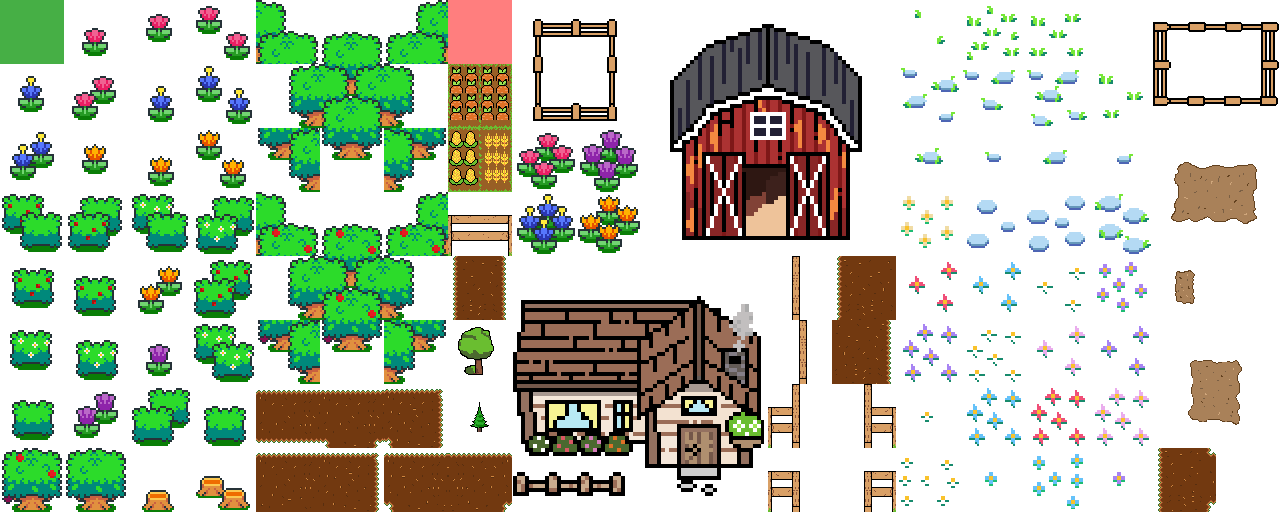
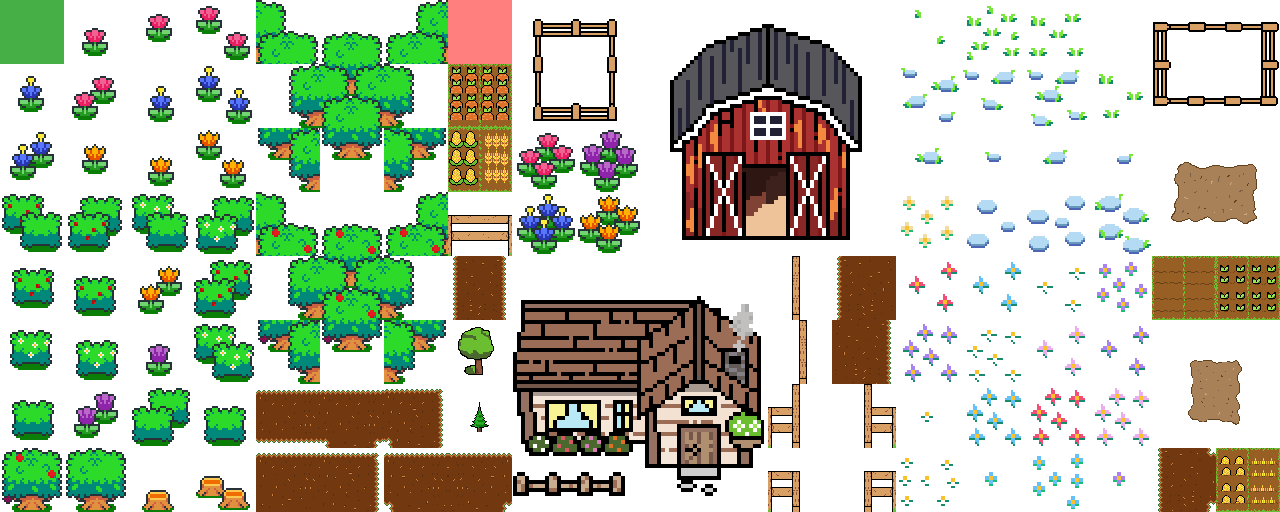
agrego funcion cultivos

Changed region(s): [[0.875, 0.5, 1.0, 0.625], [0.9375, 0.875, 1.0, 1.0]]

diff --git a/Proyecto-Final/public/CropManager.js b/Proyecto-Final/public/CropManager.js
@@ -1,0 +1,198 @@
+export class CropManager {
+    constructor(view, model) {
+        this.view = view;
+        this.model = model;
+        this.cropStage = 'initial';
+        this.cropGrowthTimer = 0;
+        this.growthInterval = null;
+        this.proximityRange = 50;
+    }
+
+    startCropGrowth() {
+        this.growthInterval = setInterval(() => {
+            this.cropGrowthTimer += 1;
+            console.log(`Timer: ${this.cropGrowthTimer}, Stage: ${this.cropStage}`);
+
+            if (this.cropGrowthTimer >= 10 && this.cropStage === 'initial') {
+                this.cropStage = 'intermediate'; 
+                this.updateCultivoImages(); 
+            }
+
+            if (this.cropGrowthTimer >= 20 && this.cropStage === 'intermediate') {
+                this.cropStage = 'full'; 
+                this.updateCultivoImages(); 
+                clearInterval(this.growthInterval);
+                console.log('Cultivos alcanzaron su etapa completa, temporizador detenido.');
+            }
+        }, 1000);
+    }
+    
+    checkProximity() {
+        const minX = 704;
+        const maxX = 1152; 
+        const minY = 512;
+        const maxY = 640; 
+    
+        const characterX = this.model.state.position_x;
+        const characterY = this.model.state.position_y;
+    
+        const isCloseToCrops = (
+            characterX >= minX - this.proximityRange && characterX <= maxX + this.proximityRange &&
+            characterY >= minY - this.proximityRange && characterY <= maxY + this.proximityRange
+        );
+
+        if (isCloseToCrops && this.cropStage === 'full') {
+            console.log('Cosecha disponible, estás cerca de los cultivos.');
+            return true;
+        }
+        return false;
+    }    
+    
+    collectCrops() {
+        console.log('Recolectando cultivos...');
+        clearInterval(this.growthInterval);
+    
+        // Generar un número total aleatorio entre 12 y 24
+        const totalCrops = Math.floor(Math.random() * 13) + 12; 
+        const crops = ['carrot', 'choclo', 'trigo'];
+        const counts = { 'carrot': 0, 'choclo': 0, 'trigo': 0 };
+    
+     
+        counts['carrot'] = 4;
+        counts['choclo'] = 4;
+        counts['trigo'] = 4;
+    
+        // Calcular los cultivos restantes a repartir
+        const remainingCrops = totalCrops - 12; // Restar los 12 ya contados (4 de cada tipo)
+    
+        // Repartir los cultivos restantes de manera aleatoria entre los tres tipos
+        for (let i = 0; i < remainingCrops; i++) {
+            const randomCrop = crops[Math.floor(Math.random() * crops.length)];
+            counts[randomCrop]++;
+        }
+    
+        // Asegurar que ningún tipo exceda el máximo de 8
+        for (let crop of crops) {
+            counts[crop] = Math.min(counts[crop], 8);
+        }
+    
+        // Crear marcador de recolección para cada tipo con un índice único
+        let index = 0;
+        for (let [crop, count] of Object.entries(counts)) {
+            if (count > 0) {
+                this.showCollectionMarker(crop, count, index);
+                index++;  // Incrementar el índice para la siguiente posición
+            }
+        }
+
+    
+        // Reiniciar estado de cultivo
+        this.cropStage = 'initial';
+        this.cropGrowthTimer = 0;
+        this.updateCultivoImages();
+        this.startCropGrowth();
+    }
+
+    showCollectionMarker(cropType, count, index) {
+        const marker = document.createElement('div');
+        marker.style.position = 'absolute';
+    
+        // Obtener el canvas y su posición en la ventana
+        const canvas = document.querySelector('canvas');
+        const canvasRect = canvas.getBoundingClientRect();
+    
+        // Calcular el centro del canvas en la ventana
+        const canvasCenterX = canvasRect.left + canvasRect.width / 2;
+        const canvasCenterY = canvasRect.top + canvasRect.height / 2;
+    
+        const offsetX = 80; // Separación horizontal entre marcadores
+    
+        // Ajuste adicional para que estén más a la izquierda y más abajo
+        const leftAdjustment = -100; 
+        const topAdjustment = 130; 
+    
+        // Posicionar los marcadores en el centro del canvas con ajustes
+        marker.style.left = `${canvasCenterX + (index * offsetX) + leftAdjustment}px`;
+        marker.style.top = `${canvasCenterY + topAdjustment}px`;
+    
+        marker.style.padding = '5px';
+        marker.style.backgroundColor = 'rgba(0, 0, 0, 0.7)';
+        marker.style.borderRadius = '5px';
+        marker.style.color = 'white';
+        marker.style.fontSize = '14px';
+        marker.style.display = 'flex';
+        marker.style.alignItems = 'center';
+    
+        // Crear imagen de cultivo
+        const cropImage = document.createElement('img');
+        cropImage.src = `assets/${cropType}.png`;
+        cropImage.style.width = '20px';
+        cropImage.style.height = '20px';
+        cropImage.style.marginRight = '5px';
+    
+        // Texto de cantidad recolectada
+        const text = document.createElement('span');
+        text.textContent = `+${count}`;
+    
+        marker.appendChild(cropImage);
+        marker.appendChild(text);
+        document.body.appendChild(marker);
+    
+        // Animación para desvanecer el marcador
+        setTimeout(() => {
+            marker.style.transition = 'all 0.5s ease-out';
+            marker.style.opacity = '0';
+            marker.style.top = `${parseInt(marker.style.top) - 20}px`;
+        }, 1000);
+    
+        setTimeout(() => {
+            document.body.removeChild(marker);
+        }, 1500);
+    }    
+    
+    
+    updateCultivoImages() {
+        console.log('Actualizando imágenes de cultivo...');
+        const cultivosLayer = this.view.mapData.layers.find(layer => layer.name === "cultivos-za");
+    
+        if (cultivosLayer && cultivosLayer.type === 'tilelayer') {
+            const tileData = cultivosLayer.data; 
+            let tileIndex;
+    
+            if (this.cropStage === 'intermediate') {
+                tileIndex = 100; 
+            } else if (this.cropStage === 'full') {
+                tileIndex = 28; 
+            } else {
+                tileIndex = 99; 
+            }
+    
+            for (let i = 0; i < tileData.length; i++) {
+                if (tileData[i] === 99 || tileData[i] === 100 || tileData[i] === 28) {
+                    tileData[i] = tileIndex;
+                }
+            }
+        }
+
+        const cultivosLayerChoTri = this.view.mapData.layers.find(layer => layer.name === "cultivos-cho-tri");
+    
+        if (cultivosLayerChoTri && cultivosLayerChoTri.type === 'tilelayer') {
+            const tileData = cultivosLayerChoTri.data; 
+            let tileIndex;
+    
+            if (this.cropStage === 'intermediate') {
+                tileIndex = 160; 
+            } else if (this.cropStage === 'full') {
+                tileIndex = 48; 
+            } else {
+                tileIndex = 99; 
+            }
+    
+            for (let i = 0; i < tileData.length; i++) {
+                if (tileData[i] === 99 || tileData[i] === 160 || tileData[i] === 48) {
+                    tileData[i] = tileIndex;
+                }
+            }
+        }
+    }
+}

diff --git a/Proyecto-Final/public/CharacterController.js b/Proyecto-Final/public/CharacterController.js
@@ -1,68 +1,71 @@
+import { CropManager } from './CropManager.js';
+
 export class CharacterController {
     constructor(model, view) {
         this.model = model;
         this.view = view;
-        this.model.addEventListener('positionchanged', () => this.updateView()); // Actualiza la vista cuando cambia la posición del personaje
-        this.model.addEventListener('mapchanged', (event) => this.handleMapChange(event)); // Escucha el cambio de mapa
+        this.cropManager = new CropManager(view, model); // Vincula CropManager
+        this.model.addEventListener('positionchanged', () => this.updateView()); 
+        this.model.addEventListener('mapchanged', (event) => this.handleMapChange(event)); 
 
         this.keys = {
             w: false,
             a: false,
             s: false,
-            d: false, // Estados de las teclas de dirección
+            d: false, 
         };
+
+       
     }
 
-    // Conecta los eventos de teclado
     connect() {
-        document.addEventListener('keydown', (event) => this.handleKeyDown(event)); // Detecta cuando se presiona una tecla
-        document.addEventListener('keyup', (event) => this.handleKeyUp(event)); // Detecta cuando se suelta una tecla
+        document.addEventListener('keydown', (event) => this.handleKeyDown(event)); 
+        document.addEventListener('keyup', (event) => this.handleKeyUp(event)); 
         this.animate(); 
+        this.cropManager.startCropGrowth(); // Inicia el crecimiento de cultivos
     }
 
-    // Maneja el evento de presionar teclas
     handleKeyDown(event) {
-        if (event.key === 'w') this.keys.w = true; 
-        if (event.key === 'a') this.keys.a = true; 
-        if (event.key === 's') this.keys.s = true; 
-        if (event.key === 'd') this.keys.d = true; 
+        if (event.key === 'w') this.keys.w = true;
+        if (event.key === 'a') this.keys.a = true;
+        if (event.key === 's') this.keys.s = true;
+        if (event.key === 'd') this.keys.d = true;
         this.updateDirection();
+        
+        // Llama a la recolección de cultivos cuando se está cerca
+        if (this.cropManager.checkProximity() && this.cropManager.cropStage === 'full') {
+            this.cropManager.collectCrops();
+        }
     }
+    
 
-    // Maneja el evento de soltar teclas
     handleKeyUp(event) {
-        if (event.key === 'w')this.keys.w = false;
+        if (event.key === 'w') this.keys.w = false;
         if (event.key === 'a') this.keys.a = false; 
         if (event.key === 's') this.keys.s = false; 
         if (event.key === 'd') this.keys.d = false; 
-
         this.updateDirection(); 
     }
 
-    // Actualiza la dirección según las teclas presionadas
     updateDirection() {
-        const x = this.keys.d ? 1 : this.keys.a ? -1 : 0; // Establece la dirección en x
-        const y = this.keys.s ? 1 : this.keys.w ? -1 : 0; // Establece la dirección en y
-        this.model.setDirection(x, y); // Envía la dirección al modelo
+        const x = this.keys.d ? 1 : this.keys.a ? -1 : 0; 
+        const y = this.keys.s ? 1 : this.keys.w ? -1 : 0; 
+        this.model.setDirection(x, y); 
     }
 
-    // Actualiza la vista con el estado del modelo
     updateView() {
         this.view.state = this.model.state; 
     }
 
-    // Función de animación
     animate() {
         this.model.updatePosition(); 
-        requestAnimationFrame(() => this.animate()); // Continúa la animación en el siguiente frame
+        requestAnimationFrame(() => this.animate()); 
     }
 
-    // Función para manejar el cambio de mapa
     handleMapChange(event) {
         const newMapData = event.detail.mapData;
-        this.view.mapData = newMapData; // Actualiza la vista con el nuevo mapa
-        this.view.update(); // Llama a la función de actualización para redibujar la pantalla con el nuevo mapa
+        this.view.mapData = newMapData; 
+        this.view.update(); 
     }
 
-    
 }

diff --git a/Proyecto-Final/public/index.js b/Proyecto-Final/public/index.js
@@ -21,7 +21,7 @@ async function main() {
     const context = canvas.getContext('2d');
 
     let characterModel = new CharacterModel();
-    let characterView = new CharacterView(context, characterModel); // Pasa characterModel aquí
+    let characterView = new CharacterView(context, characterModel); 
     let characterController = new CharacterController(characterModel, characterView);
 
  
@@ -62,18 +62,18 @@ async function main() {
         console.error('Error loading map:', error);
     }
     
-
     function animateAnimals() {
-        if (vaca) vaca.updatePosition(); // Update position only if vaca is defined
-        if (gallina) gallina.updatePosition(); // Update position only if gallina is defined
-        characterView.update(); // Update the view to redraw the animals in their new positions
-        requestAnimationFrame(animateAnimals); // Call the animation again in the next frame
+        if (vaca) vaca.updatePosition(); 
+        if (gallina) gallina.updatePosition(); 
+        characterView.update(); 
+        
+        requestAnimationFrame(animateAnimals); 
     }    
     animateAnimals(); // Inicia la animación de los animales 
 
     function animateNpcs() {
-        characterView.update(); // Update the view to redraw the Npcs in their new positions
-        requestAnimationFrame(animateNpcs); // Call the animation again in the next frame
+        characterView.update(); 
+        requestAnimationFrame(animateNpcs); 
     }    
     animateNpcs(); // Inicia la animación de los animales
 

diff --git a/Proyecto-Final/public/CharacterModel.js b/Proyecto-Final/public/CharacterModel.js
@@ -89,10 +89,6 @@ export class CharacterModel extends EventTarget {
             this.state.position_y = newY;
             this.lastDirection = { ...this.direction }; // Guarda la última dirección de movimiento
         }
-
-        console.log(`NPC Position Updated - X: ${this.state.position_x}, Y: ${this.state.position_y}`);
-
-
     }
     
     handleIdleState() {
@@ -553,11 +549,6 @@ export class NPC extends CharacterModel {
             Math.pow(this.state.position_x - characterModel.state.position_x, 2) + 
             Math.pow(this.state.position_y - characterModel.state.position_y, 2)
         );
-
-        if (distance < range) {
-            console.log(`${this.NpcType}: Hola Felix.`);
-            return true;
-        }
 
         return false;
     }

diff --git a/Proyecto-Final/public/CharacterView.js b/Proyecto-Final/public/CharacterView.js
@@ -94,10 +94,6 @@ export class CharacterView extends HTMLElement {
             img.src = state.sprite;
             this.loadedImages[state.sprite] = img;
     
-            img.onerror = () => {
-                console.error(`Error loading image at ${state.sprite}`);
-            };
-    
             // Dibuja la imagen solo después de que se haya cargado
             img.onload = () => {
                 this.renderCharacter(state, img);

diff --git a/Proyecto-Final/public/style.css b/Proyecto-Final/public/style.css
@@ -6,7 +6,8 @@ html, body {
   display: flex;
   justify-content: center;
   align-items: center;
-  background-color: #9575cd; 
+  background: url("Img/fondo.jpg") no-repeat center center fixed;
+  background-size: cover; 
 }
   
 .game-container {
